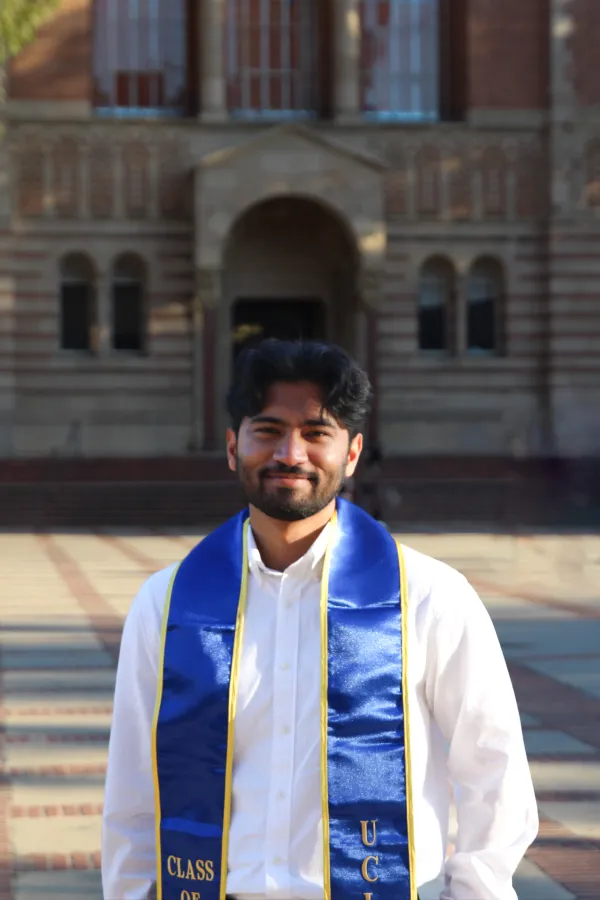
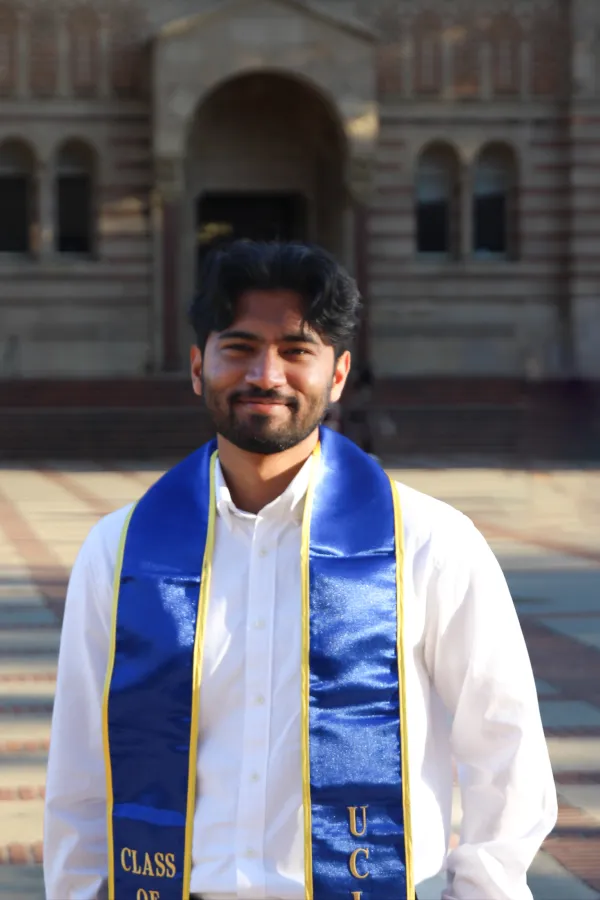
Add LinkedIn and update About page

diff --git a/index.html b/index.html
@@ -45,7 +45,7 @@
                 <p class="intro__eyebrow">Data Analyst · City of Los Angeles</p>
                 <h1 class="intro__heading">Mohammed Azad</h1>
                 <p class="intro__bio">
-                    Hello! My name is Mohammed Azad and I'm a Data Analyst with the City of Los Angeles. My current career goal is to
+                    Hello! My name is Mohammed, and I'm a Data Analyst with the City of Los Angeles. My current career goal is to
                     improve the intersection between technology and public affairs to better deliver public services and promote transparency.
                     My key interests include improving public policy through data analysis, data-driven technology, and programmatic efficiency across a wide range of social issues, especially the ones affecting Los Angeles.
                     In my free time, I enjoy working out 🏋🏾♂, creating content 🎥, and going on all types of adventures 🌎.
@@ -64,6 +64,7 @@
             <p class="footer__cta">Get in touch!</p>
             <ul class="footer__links">
                 <li><a href="mailto:shintuzd@gmail.com">shintuzd@gmail.com</a></li>
+                <li><a href="https://www.linkedin.com/in/azadmohammed/" target="_blank" rel="noopener">LinkedIn</a></li>
                 <li><a href="https://github.com/shintuzd" target="_blank" rel="noopener">GitHub</a></li>
             </ul>
             <p class="footer__copy">© <span data-year>2026</span> Mohammed Azad</p>

diff --git a/projects.html b/projects.html
@@ -116,6 +116,7 @@
             <p class="footer__cta">Get in touch!</p>
             <ul class="footer__links">
                 <li><a href="mailto:shintuzd@gmail.com">shintuzd@gmail.com</a></li>
+                <li><a href="https://www.linkedin.com/in/azadmohammed/" target="_blank" rel="noopener">LinkedIn</a></li>
                 <li><a href="https://github.com/shintuzd" target="_blank" rel="noopener">GitHub</a></li>
             </ul>
             <p class="footer__copy">© <span data-year>2026</span> Mohammed Azad</p>

diff --git a/404.html b/404.html
@@ -48,6 +48,7 @@
             <p class="footer__cta">Get in touch!</p>
             <ul class="footer__links">
                 <li><a href="mailto:shintuzd@gmail.com">shintuzd@gmail.com</a></li>
+                <li><a href="https://www.linkedin.com/in/azadmohammed/" target="_blank" rel="noopener">LinkedIn</a></li>
                 <li><a href="https://github.com/shintuzd" target="_blank" rel="noopener">GitHub</a></li>
             </ul>
             <p class="footer__copy">© <span data-year>2026</span> Mohammed Azad</p>

diff --git a/about.html b/about.html
@@ -91,6 +91,7 @@
             <p class="footer__cta">Get in touch!</p>
             <ul class="footer__links">
                 <li><a href="mailto:shintuzd@gmail.com">shintuzd@gmail.com</a></li>
+                <li><a href="https://www.linkedin.com/in/azadmohammed/" target="_blank" rel="noopener">LinkedIn</a></li>
                 <li><a href="https://github.com/shintuzd" target="_blank" rel="noopener">GitHub</a></li>
             </ul>
             <p class="footer__copy">© <span data-year>2026</span> Mohammed Azad</p>

diff --git a/docs/FoodMap.html b/docs/FoodMap.html
@@ -54,6 +54,7 @@
             <p class="footer__cta">Get in touch!</p>
             <ul class="footer__links">
                 <li><a href="mailto:shintuzd@gmail.com">shintuzd@gmail.com</a></li>
+                <li><a href="https://www.linkedin.com/in/azadmohammed/" target="_blank" rel="noopener">LinkedIn</a></li>
                 <li><a href="https://github.com/shintuzd" target="_blank" rel="noopener">GitHub</a></li>
             </ul>
             <p class="footer__copy">© <span data-year>2026</span> Mohammed Azad</p>

diff --git a/docs/HHHhub.html b/docs/HHHhub.html
@@ -54,6 +54,7 @@
             <p class="footer__cta">Get in touch!</p>
             <ul class="footer__links">
                 <li><a href="mailto:shintuzd@gmail.com">shintuzd@gmail.com</a></li>
+                <li><a href="https://www.linkedin.com/in/azadmohammed/" target="_blank" rel="noopener">LinkedIn</a></li>
                 <li><a href="https://github.com/shintuzd" target="_blank" rel="noopener">GitHub</a></li>
             </ul>
             <p class="footer__copy">© <span data-year>2026</span> Mohammed Azad</p>

diff --git a/docs/TravelMap.html b/docs/TravelMap.html
@@ -52,6 +52,7 @@
             <p class="footer__cta">Get in touch!</p>
             <ul class="footer__links">
                 <li><a href="mailto:shintuzd@gmail.com">shintuzd@gmail.com</a></li>
+                <li><a href="https://www.linkedin.com/in/azadmohammed/" target="_blank" rel="noopener">LinkedIn</a></li>
                 <li><a href="https://github.com/shintuzd" target="_blank" rel="noopener">GitHub</a></li>
             </ul>
             <p class="footer__copy">© <span data-year>2026</span> Mohammed Azad</p>

diff --git a/experience.html b/experience.html
@@ -89,6 +89,7 @@
             <p class="footer__cta">Get in touch!</p>
             <ul class="footer__links">
                 <li><a href="mailto:shintuzd@gmail.com">shintuzd@gmail.com</a></li>
+                <li><a href="https://www.linkedin.com/in/azadmohammed/" target="_blank" rel="noopener">LinkedIn</a></li>
                 <li><a href="https://github.com/shintuzd" target="_blank" rel="noopener">GitHub</a></li>
             </ul>
             <p class="footer__copy">© <span data-year>2026</span> Mohammed Azad</p>

diff --git a/styles/style.css b/styles/style.css
@@ -192,8 +192,7 @@ a:hover {
 }
 
 .prose {
-  max-width: 700px;
-  margin: 0 auto 2rem;
+  margin: 0 0 2rem;
   line-height: 1.8;
 }
 
@@ -279,8 +278,7 @@ a:hover {
   display: grid;
   gap: 2.5rem;
   align-items: center;
-  max-width: 1000px;
-  margin: 0 auto 2.5rem;
+  margin: 0 0 2.5rem;
 }
 
 .about-lead__photo {
